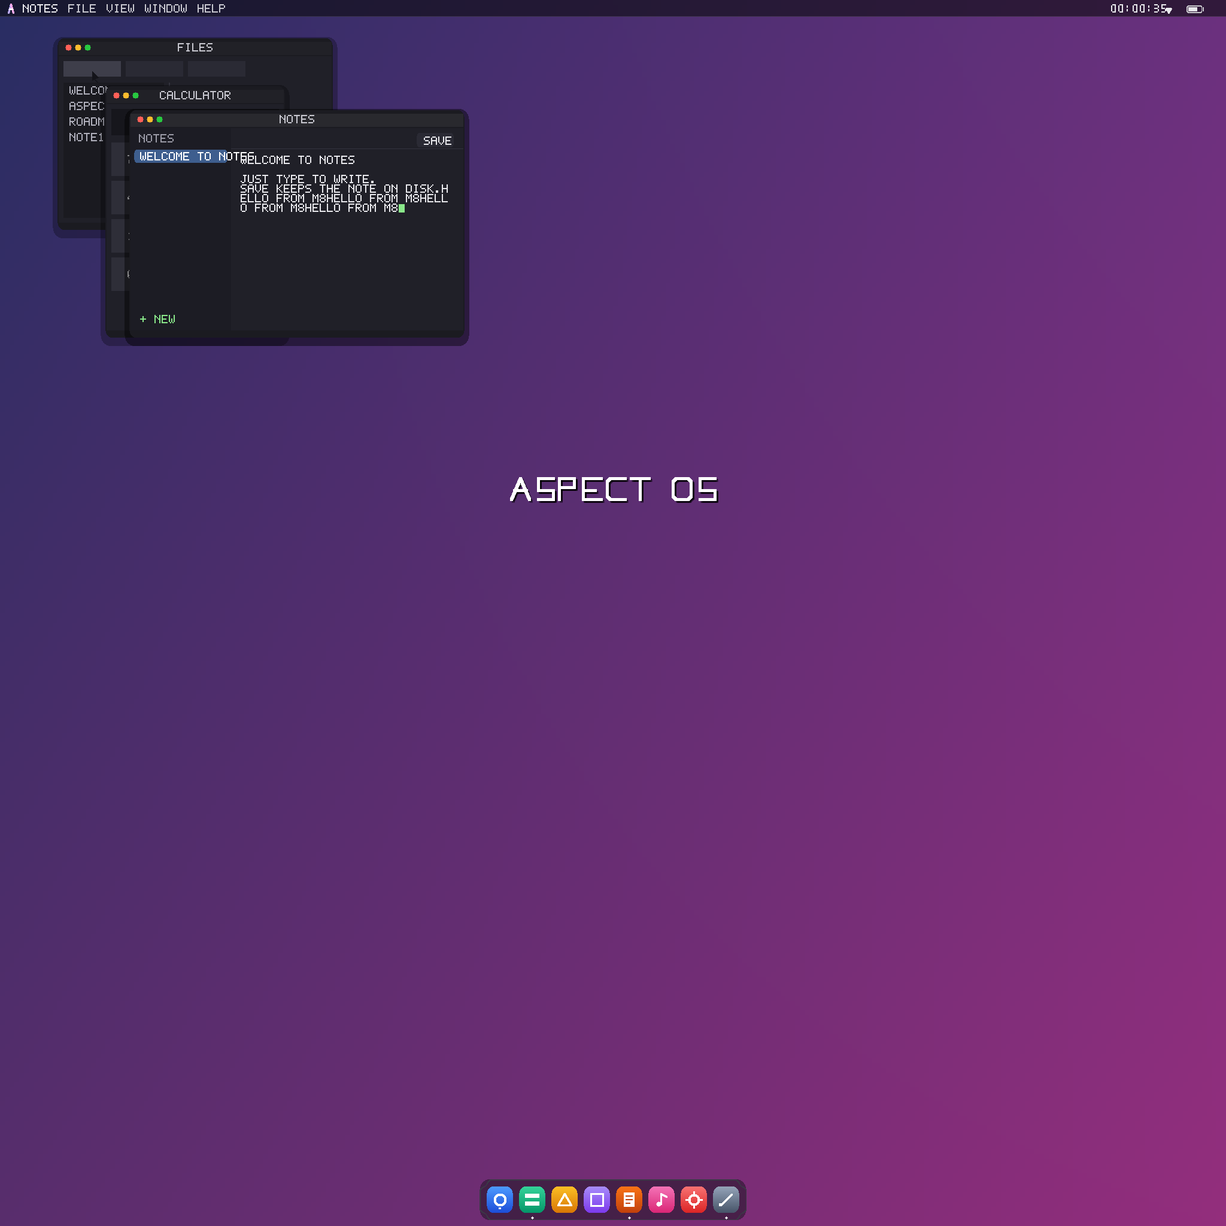
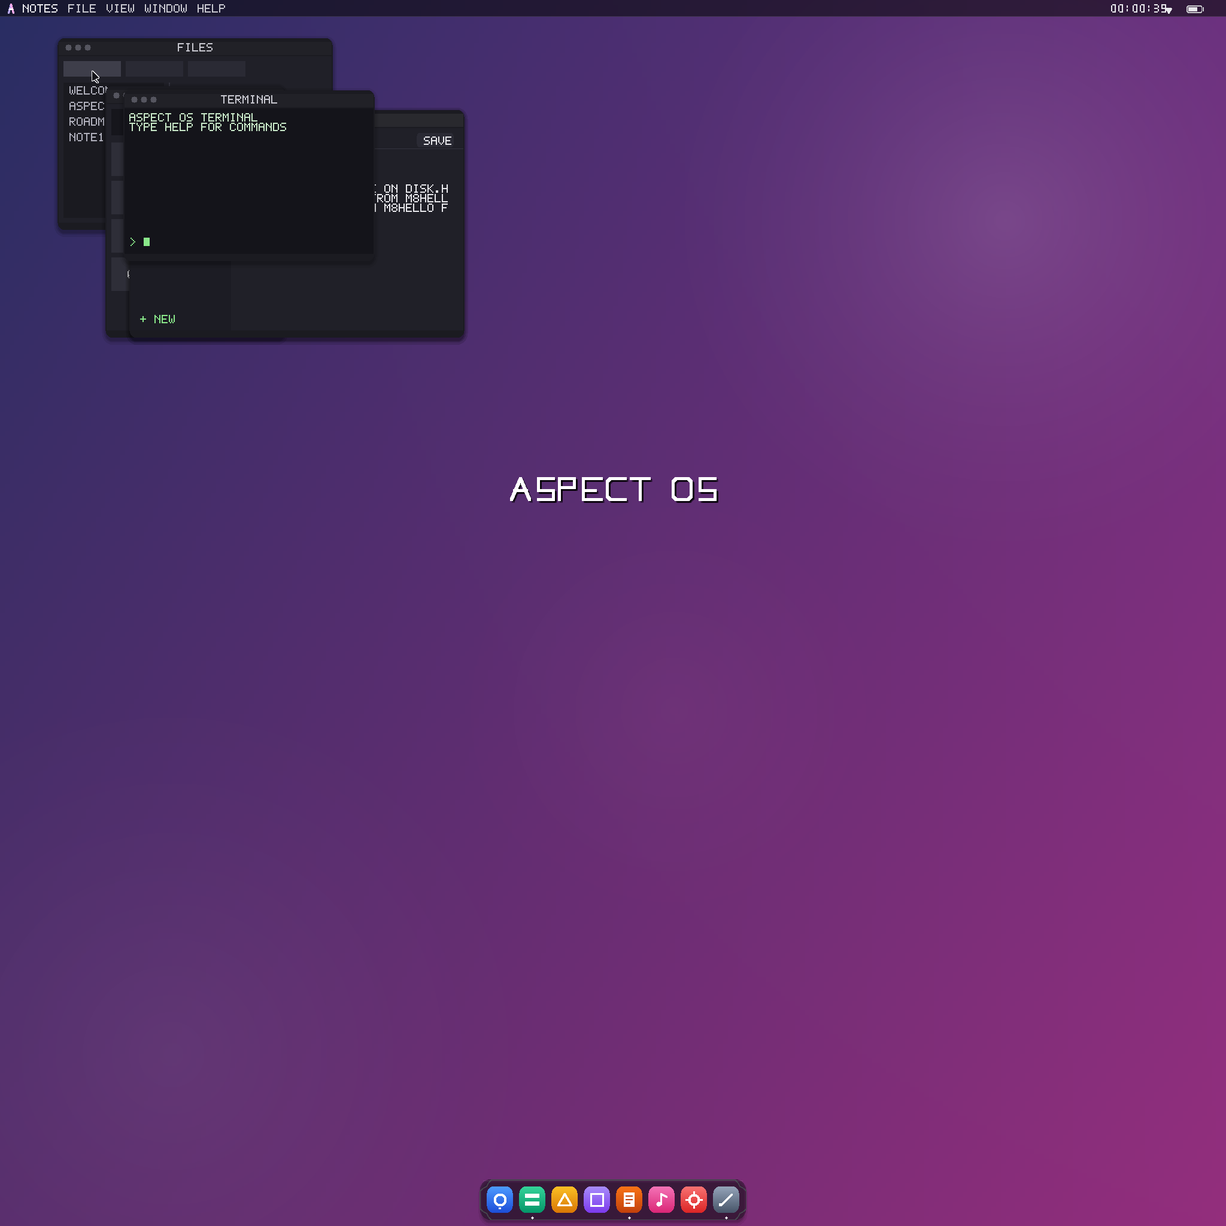
M9: authentic macOS look + compositor/robustness improvements
- gui.rs: blit_rect bulk pixel-rect copy (clipped), 3-layer
  soft_shadow helper, arrow cursor with white outline, dock drawn
  as a translucent glass pill (soft shadow, hairline top edge),
  ambient wallpaper glow blobs tinted from the active theme
- wm.rs: macOS accent blue 0xFF3D6EB4, colored traffic lights on
  the focused window and gray ones on unfocused windows, hover
  glyphs only on the focused window, hairline under the title bar,
  dropdown menus get a layered shadow + border (double fill
  removed), the dock now floats above every window (macOS
  z-order), dirty() accessor
- apps.rs: paint canvas blitted as bulk rows instead of 537k
  per-pixel writes, accent blue applied across all apps, version
  strings 0.6.0 M9 / "VERSION 0.6 - AQUA", terminal path parser
  clamps the directory slice to the buffer size
- main.rs: idle path repaints only the menubar clock once per
  second instead of a full frame when nothing is animating
- docs/screenshots: refreshed curated M9 dump set (8 coherent
  frames, torn mid-frame captures removed)
- README: M9 rows in the architecture table, roadmap entry

Changed region(s): [[0.0938, 0.0625, 0.3125, 0.1875], [0.25, 0.0625, 0.3125, 0.0938]]

diff --git a/kernel/apps.rs b/kernel/apps.rs
@@ -224,7 +224,7 @@ fn files_draw(x: i32, y: i32, w: i32, h: i32) {
             let ry = y + 50 + i as i32 * 26;
             let sel = F_SEL == i as i32;
             if sel {
-                gui::fill_rect(x + 12, ry - 3, 160, 22, 0xFF3E5E8E);
+                gui::fill_rect(x + 12, ry - 3, 160, 22, 0xFF3D6EB4);
             }
             draw_name(x + 18, ry, &F_FILES[folder][i], 2, if sel { 0xFFFFFFFF } else { 0xFFB0B0BC });
         }
@@ -385,7 +385,7 @@ fn term_exec(cmd: &[u8]) {
     } else if eq("ECHO") {
         term_push(rest);
     } else if eq("VER") {
-        term_push_str("ASPECT OS 0.5.0 M5");
+        term_push_str("ASPECT OS 0.6.0 M9");
     } else if eq("UPTIME") {
         term_push_num("UP ", pit::ticks() / 1000, " SECONDS");
     } else if eq("MEM") {
@@ -448,6 +448,7 @@ fn term_path(arg: &[u8]) -> Option<(usize, usize)> {
     if slash == arg.len() {
         return None;
     }
+    let slash = slash.min(62); // up[] holds at most 62 bytes
     let dirname = &up[..slash];
     let filename = slash + 1; // index into `arg` (original case)
     if filename >= arg.len() {
@@ -1005,7 +1006,7 @@ fn calc_draw(x: i32, y: i32, w: i32, h: i32) {
             let bgc = if k == b'C' {
                 0xFF7A2E38
             } else if accent {
-                0xFF3E5E8E
+                0xFF3D6EB4
             } else {
                 0xFF2E2E38
             };
@@ -1080,14 +1081,9 @@ fn paint_in_canvas(lx: i32, ly: i32) -> bool {
 
 fn paint_draw(x: i32, y: i32, w: i32, h: i32) {
     gui::fill_rect(x, y, w, h, 0xFF23232B);
-    // canvas (1:1 blit, clipped by the window)
+    // canvas blit (1:1, clipped by the window clip; bulk rows, not per-pixel)
     unsafe {
-        for cy in 0..CANVAS_H {
-            let row = cy as usize * CANVAS_W as usize;
-            for cx in 0..CANVAS_W {
-                gui::pset(x + CANVAS_OX + cx, y + CANVAS_OY + cy, CANVAS[row + cx as usize]);
-            }
-        }
+        gui::blit_rect(&CANVAS, CANVAS_W, x + CANVAS_OX, y + CANVAS_OY, CANVAS_W, CANVAS_H);
     }
     // palette
     let py = y + CANVAS_OY + CANVAS_H + 10;
@@ -1167,7 +1163,7 @@ fn settings_draw(x: i32, y: i32, w: i32, h: i32) {
         let ry = y + 66 + i as i32 * 52;
         let sel = gui::theme() == i;
         if sel {
-            gui::fill_rect(x + 10, ry - 4, w - 20, 44, 0xFF3E5E8E);
+            gui::fill_rect(x + 10, ry - 4, w - 20, 44, 0xFF3D6EB4);
         }
         // swatch: preview from the theme gradient at this screen position
         gui::fill_rect(x + 18, ry + 4, 32, 16, gui::gradient_color(x + 18, ry + 4));
@@ -1357,7 +1353,7 @@ fn about_draw(x: i32, y: i32, w: i32, h: i32) {
     gui::draw_line_t(x + 52, y + 20, x + 74, y + 78, 5, 0xFFF5A8E8);
     gui::draw_line_t(x + 38, y + 58, x + 66, y + 58, 5, 0xFFFFFFFF);
     gui::draw_text(x + 104, y + 28, "ASPECT OS", 5, 0xFFFFFFFF);
-    gui::draw_text(x + 104, y + 76, "VERSION 0.5 - AQUA", 2, 0xFF9A9AA6);
+    gui::draw_text(x + 104, y + 76, "VERSION 0.6 - AQUA", 2, 0xFF9A9AA6);
     gui::fill_rect(x + 24, y + 120, w - 48, 1, 0xFF33333E);
     draw_multiline(x + 24, y + 136,
         "WINDOW COMPOSITOR WITH DRAG,\nFOCUS, TRAFFIC LIGHTS AND\nMENUBAR MENUS.\n\nFILES, TERMINAL, PAINT, NOTES,\nMUSIC, BROWSER, SETTINGS.\n\nOPEN/CLOSE + DOCK ANIMATIONS.\n100% OWN RUST CODE.", 2, 0xFFC0C0CA, w - 48);
@@ -1461,7 +1457,7 @@ fn notes_draw(x: i32, y: i32, w: i32, h: i32) {
             let ry = y + 40 + i as i32 * 26;
             let sel = i == NT_SEL;
             if sel {
-                gui::round_rect_fill(x + 6, ry - 4, sw - 12, 22, 6, 0xFF3E5E8E);
+                gui::round_rect_fill(x + 6, ry - 4, sw - 12, 22, 6, 0xFF3D6EB4);
             }
             let b = &NT_BUF[i][..NT_LEN[i]];
             let mut end = b.len();
@@ -1673,7 +1669,7 @@ fn music_draw(x: i32, y: i32, w: i32, h: i32) {
             let ry = y + 100 + i as i32 * 30;
             let sel = i == t;
             if sel {
-                gui::round_rect_fill(x + 184, ry - 5, w - 208, 24, 6, 0xFF3E5E8E);
+                gui::round_rect_fill(x + 184, ry - 5, w - 208, 24, 6, 0xFF3D6EB4);
             }
             gui::draw_text(x + 196, ry, MU_TITLES[i], 2,
                            if sel { 0xFFFFFFFF } else { 0xFFB0B0BC });
@@ -1689,7 +1685,7 @@ fn music_draw(x: i32, y: i32, w: i32, h: i32) {
         gui::round_rect_fill(x + 24, py, w - 48, 6, 3, 0xFF16161C);
         let fill = ((w - 48) as u64 * el / MU_SECS[t]) as i32;
         if fill > 6 {
-            gui::round_rect_fill(x + 24, py, fill, 6, 3, 0xFF3E5E8E);
+            gui::round_rect_fill(x + 24, py, fill, 6, 3, 0xFF3D6EB4);
         }
         gui::circle_fill(x + 24 + fill, py + 3, 6, 0xFFE8E8EC);
         let mut tb = [0u8; 8];
@@ -1705,7 +1701,7 @@ fn music_draw(x: i32, y: i32, w: i32, h: i32) {
         let cx0 = x + w / 2;
         let cy0 = y + 254;
         gui::circle_fill(cx0 - 56, cy0, 18, 0xFF2A2A34);
-        gui::circle_fill(cx0, cy0, 22, 0xFF3E5E8E);
+        gui::circle_fill(cx0, cy0, 22, 0xFF3D6EB4);
         gui::circle_fill(cx0 + 56, cy0, 18, 0xFF2A2A34);
         // prev: bar + left-pointing triangle
         gui::fill_rect(cx0 - 64, cy0 - 6, 3, 12, 0xFFFFFFFF);
@@ -1736,7 +1732,7 @@ fn music_draw(x: i32, y: i32, w: i32, h: i32) {
             } else {
                 4
             };
-            let col = gui::mix(0xFF3E5E8E, 0xFF8AB4FF, (i * 255 / n) as i32);
+            let col = gui::mix(0xFF3D6EB4, 0xFF8AB4FF, (i * 255 / n) as i32);
             gui::fill_rect(bx, by - ht, 8, ht, col);
         }
         if MU_PLAY {

diff --git a/kernel/wm.rs b/kernel/wm.rs
@@ -156,6 +156,11 @@ pub fn mark_dirty() {
     }
 }
 
+/// is a repaint pending? (used for the clock-only idle update path)
+pub fn dirty() -> bool {
+    unsafe { DIRTY }
+}
+
 /// app-driven continuous animation (e.g. the music equalizer)
 pub fn anim_request(ms: u64) {
     unsafe {
@@ -342,7 +347,7 @@ fn dock_app(i: usize) -> AppId {
 // macOS-style menubar menus: monogram, app name, FILE, VIEW, WINDOW, HELP
 // =====================================================================
 
-const ACCENT: u32 = 0xFF3E5E8E; // menu highlight blue (matches Settings)
+const ACCENT: u32 = 0xFF3D6EB4; // macOS-style menu/control highlight blue
 const MENU_N: i32 = 6; // 0 monogram, 1 app, 2 FILE, 3 VIEW, 4 WINDOW, 5 HELP
 static mut MENU_OPEN: i32 = -1;
 static mut MENU_HOVER: i32 = -1; // item row under the cursor
@@ -585,13 +590,13 @@ fn draw_menu(m: i32) {
         } else {
             gui::draw_text(tx0, 7, menu_title(m), 2, 0xFFFFFFFF);
         }
-        // dropdown: shadow + panel
+        // dropdown: layered soft shadow + panel + lit top edge
         let (px, py, pw, _) = menu_panel(m);
         let py = py - off;
         let ph = n as i32 * 20 + 8;
-        gui::round_rect_blend(px - 8, py, pw + 16, ph + 12, 14, 0x000000, 120 * e >> 8);
+        gui::soft_shadow(px, py, pw, ph, 10, 90 * e >> 8);
         gui::round_rect_fill(px, py, pw, ph, 10, 0xFF1F1F26);
-        gui::round_rect_fill(px, py, pw, ph, 10, 0xFF1F1F26);
+        gui::round_rect_stroke(px, py, pw, ph, 10, 1, 0x3C3C46);
         gui::blend_rect(px + 3, py + 1, pw - 6, 1, 0xFFFFFF, 26);
         for r in 0..n {
             let iy = py + 3 + r as i32 * 20;
@@ -801,22 +806,31 @@ fn draw_win(focused: bool, w: Win, k: i32) {
         h: nh,
         birth: 0,
     };
-    // drop shadow (fades in with the pop)
+    // macOS-style soft drop shadow (fades in with the pop)
     let sh = (if focused { 110 } else { 70 }) * k >> 8;
-    gui::round_rect_blend(sw.x - 8, sw.y - 2, sw.w + 16, sw.h + 16, 18, 0x000000, sh);
+    gui::soft_shadow(sw.x, sw.y, sw.w, sw.h, 12, sh);
     // body
     gui::round_rect_fill(sw.x, sw.y, sw.w, sw.h, 12, 0xFF1B1B21);
     // title strip (kept inside the rounded top corners)
     gui::blend_rect(sw.x + 2, sw.y + 6, sw.w - 4, TITLE_H - 8, 0xFFFFFF,
                     if focused { 16 } else { 7 });
-    // traffic lights
+    // hairline under the title bar
+    gui::blend_rect(sw.x + 2, sw.y + TITLE_H, sw.w - 4, 1, 0x000000, 50);
+    // traffic lights: colored when focused, gray when not (macOS behavior)
     let ly = sw.y + TITLE_H / 2;
-    gui::circle_fill(sw.x + 18, ly, 5, 0xFFFF5F57);
-    gui::circle_fill(sw.x + 34, ly, 5, 0xFFFEBC2E);
-    gui::circle_fill(sw.x + 50, ly, 5, 0xFF28C840);
-    // hover the title bar: glyphs appear on the lights (close / minus / zoom)
+    if focused {
+        gui::circle_fill(sw.x + 18, ly, 5, 0xFFFF5F57);
+        gui::circle_fill(sw.x + 34, ly, 5, 0xFFFEBC2E);
+        gui::circle_fill(sw.x + 50, ly, 5, 0xFF28C840);
+    } else {
+        gui::circle_fill(sw.x + 18, ly, 5, 0xFF55555F);
+        gui::circle_fill(sw.x + 34, ly, 5, 0xFF55555F);
+        gui::circle_fill(sw.x + 50, ly, 5, 0xFF55555F);
+    }
+    // hover the focused title bar: glyphs appear on the lights
+    // (close / minus / zoom)
     let (mx, my) = gui::cursor_pos();
-    if mx >= sw.x && mx < sw.x + sw.w && my >= sw.y && my < sw.y + TITLE_H {
+    if focused && mx >= sw.x && mx < sw.x + sw.w && my >= sw.y && my < sw.y + TITLE_H {
         gui::draw_line_t(sw.x + 15, ly - 3, sw.x + 21, ly + 3, 2, 0xFF7A1210);
         gui::draw_line_t(sw.x + 15, ly + 3, sw.x + 21, ly - 3, 2, 0xFF7A1210);
         gui::fill_rect(sw.x + 30, ly, 8, 2, 0xFF9A6A00);
@@ -897,8 +911,8 @@ fn draw_menu_titles() {
     }
 }
 
-/// full-screen compositor pass: background, dock, windows back to front,
-/// close ghosts, menubar menus, cursor
+/// full-screen compositor pass: background, windows back to front, close
+/// ghosts, dock ABOVE the windows (macOS z-order), menus, cursor
 pub fn redraw() {
     unsafe {
         let now = pit::ticks();
@@ -906,9 +920,6 @@ pub fn redraw() {
         // the clock lives in the background bar: blit_bg wipes it, so it is
         // drawn every frame right after the background
         gui::draw_clock(now / 1000);
-        // the dock is dynamic: magnification, bounce, running dots
-        let (bounce, lift, run) = dock_anim();
-        gui::draw_dock(&MAG, bounce, lift, &run);
         for i in 0..N {
             if let Some(w) = WINS[i] {
                 draw_window(i == N - 1, w, now);
@@ -930,9 +941,12 @@ pub fn redraw() {
         for i in k..4 {
             GHOSTS[i] = None;
         }
+        // the dock floats above every window
+        let (bounce, lift, run) = dock_anim();
+        gui::draw_dock(&MAG, bounce, lift, &run);
         // macOS-style menubar titles live over the background bar
         draw_menu_titles();
-        // menus draw above every window; the cursor stays on top
+        // menus draw above everything; the cursor stays on top
         if MENU_OPEN >= 0 {
             draw_menu(MENU_OPEN);
         }

diff --git a/kernel/gui.rs b/kernel/gui.rs
@@ -213,6 +213,37 @@ pub fn blend_rect(x0: i32, y0: i32, w: i32, h: i32, c: u32, a: i32) {
     }
 }
 
+/// bulk-copy a pixel rect from src (pitch spitch) into the current target,
+/// fully clipped - used for canvas blits (paint) instead of per-pixel pset
+pub fn blit_rect(src: &[u32], spitch: i32, dx: i32, dy: i32, w: i32, h: i32) {
+    unsafe {
+        let xa = clamp(dx, CL_X0, CL_X1 + 1);
+        let xb = clamp(dx + w - 1, CL_X0, CL_X1 + 1);
+        let ya = clamp(dy, CL_Y0, CL_Y1 + 1);
+        let yb = clamp(dy + h - 1, CL_Y0, CL_Y1 + 1);
+        let mut y = ya;
+        while y <= yb {
+            let sy = y - dy;
+            let srow = src.as_ptr().add((sy * spitch) as usize);
+            let drow = T.offset((y * TPPSL) as isize);
+            let mut x = xa - dx;
+            while x <= xb - dx {
+                *drow.offset((dx + x) as isize) = *srow.add(x as usize);
+                x += 1;
+            }
+            y += 1;
+        }
+    }
+}
+
+/// macOS-style soft drop shadow: three stacked translucent rounded rects
+/// (wide faint + mid + tight dark) read as one blurred shadow
+pub fn soft_shadow(x0: i32, y0: i32, w: i32, h: i32, r: i32, a: i32) {
+    round_rect_blend(x0 - 6, y0 - 4, w + 12, h + 16, r + 8, 0x000000, a * 30 / 100);
+    round_rect_blend(x0 - 3, y0 - 1, w + 6, h + 9, r + 4, 0x000000, a * 40 / 100);
+    round_rect_blend(x0, y0 + 2, w, h + 4, r, 0x000000, a * 50 / 100);
+}
+
 pub fn isqrt(n: u64) -> u64 {
     if n < 2 {
         return n;
@@ -661,8 +692,11 @@ pub fn dock_hit(cx: i32, cy: i32) -> i32 {
 pub fn draw_dock(mag: &[i32; DOCK_N], bounce: i32, lift: i32, running: &[bool; DOCK_N]) {
     dock_layout(mag);
     let (dpx, dpy, dpw, dph) = unsafe { D_PANEL };
-    round_rect_blend(dpx, dpy, dpw, dph, 18, 0x14141A, 125);
-    round_rect_stroke(dpx, dpy, dpw, dph, 18, 2, 0x3A3A46);
+    // translucent macOS dock pill: soft shadow, glassy body, lit top edge
+    soft_shadow(dpx + 4, dpy + 4, dpw - 8, dph - 6, 14, 60);
+    round_rect_blend(dpx, dpy, dpw, dph, 20, 0x101014, 105);
+    round_rect_stroke(dpx, dpy, dpw, dph, 20, 2, 0x46464F);
+    blend_rect(dpx + 6, dpy + 2, dpw - 12, 1, 0xFFFFFF, 26);
 
     let tops: [u32; DOCK_N] = [
         0xFF4C9AFF, 0xFF34D399, 0xFFFBBF24, 0xFFA78BFA,
@@ -751,9 +785,39 @@ pub fn draw_dock(mag: &[i32; DOCK_N], bounce: i32, lift: i32, running: &[bool; D
 // --- desktop background: render once, blit every frame ---
 // (the dock is NOT baked in: it is drawn per frame so it can magnify,
 // bounce and show running indicators)
+
+/// soft radial glow blob (wallpaper ambience, integer falloff)
+fn glow(cx: i32, cy: i32, r: i32, col: u32, alpha: i32) {
+    if r <= 0 {
+        return;
+    }
+    let r2 = (r * r) as u64;
+    for y in -r..=r {
+        let dy2 = (y * y) as u64;
+        for x in -r..=r {
+            let d2 = dy2 + (x * x) as u64;
+            if d2 <= r2 {
+                let fall = 255 - ((isqrt(d2) * 255) / r as u64) as i32;
+                let a = (alpha * fall * fall) >> 16;
+                if a > 0 {
+                    px_blend(cx + x, cy + y, col, a);
+                }
+            }
+        }
+    }
+}
+
 fn bg_render() {
     set_target_bg();
     draw_gradient();
+    // ambient glow blobs tinted from the theme corners (Sonoma-style depth)
+    unsafe {
+        let cols = THEME_COLS[THEME];
+        let lt = |c: u32, t: i32| mix(c, 0xFFFFFF, t);
+        glow(tw() * 82 / 100, th() * 18 / 100, th() / 3, lt(cols[1], 90), 85);
+        glow(tw() * 14 / 100, th() * 86 / 100, th() * 2 / 5, lt(cols[2], 55), 60);
+        glow(tw() * 55 / 100, th() * 58 / 100, th() / 4, lt(cols[3], 40), 35);
+    }
     draw_menubar();
     crate::logo::draw_wordmark(tw() / 2, th() * 40 / 100, 5);
     set_target_fb();
@@ -840,14 +904,28 @@ pub fn init_cursor() {
     }
 }
 
-/// draw the arrow at the current position into the current target (framebuffer)
+/// draw the arrow at the current position into the current target (framebuffer):
+/// white outline (mask dilated by 1 px) with the dark arrow on top, like macOS
 pub fn draw_cursor() {
     unsafe {
         let (x, y) = (CUR_X, CUR_Y);
+        // outline pass: stamp white around every arrow pixel
         for (ry, row) in CURSOR_SHAPE.iter().enumerate() {
             for rx in 0..CUR_W {
                 if row & (0x800 >> rx) != 0 {
-                    px(x + rx, y + ry as i32, 0xFF14141A); // dark arrow
+                    for oy in -1..=1 {
+                        for ox in -1..=1 {
+                            px(x + rx as i32 + ox, y + ry as i32 + oy, 0xFFF2F2F6);
+                        }
+                    }
+                }
+            }
+        }
+        // body pass on top
+        for (ry, row) in CURSOR_SHAPE.iter().enumerate() {
+            for rx in 0..CUR_W {
+                if row & (0x800 >> rx) != 0 {
+                    px(x + rx as i32, y + ry as i32, 0xFF14141A); // dark arrow
                 }
             }
         }

diff --git a/kernel/main.rs b/kernel/main.rs
@@ -170,7 +170,13 @@ fn kernel_main(bi: *const BootInfo) {
         }
         let sec = pit::ticks() / 1000;
         if LAST_SEC.swap(sec, Ordering::Relaxed) != sec {
-            wm::mark_dirty(); // redraw() paints the clock (blit_bg wipes it)
+            // idle path: only repaint the menubar clock region instead of a
+            // full frame (the background bar is baked without the clock)
+            if wm::animating() || wm::dirty() {
+                wm::mark_dirty();
+            } else {
+                gui::draw_clock(sec);
+            }
         }
         unsafe { asm!("hlt", options(nomem, nostack)) };
     }

diff --git a/README.md b/README.md
@@ -69,13 +69,14 @@ no GRUB, no foreign crates, no pre-made themes. Own UEFI bootloader, own
 |---|---|
 | **Bootloader** `boot/main.rs` | Own `repr(C)` UEFI headers (no GNU-EFI), GOP video mode (highest resolution), kernel **embedded** (`include_bytes!`) and copied to `0x2000000` (32 MiB span reserved: the image includes ~19 MiB of `.bss` buffers, and OVMF reserves everything below ~24 MiB), own stack, memory map copied into `BootInfo` before `ExitBootServices` (with retry), handover via `asm!` (`rdi` = BootInfo) |
 | **Kernel** `kernel/` | `.bss` zeroing (u64 bulk + byte head/tail), staged logging via COM1, event loop (`sti`/`hlt`): drains mouse/key queues, repaints on demand, ticks the menubar clock once per second |
-| **GUI** `kernel/gui.rs` | Draw targets (framebuffer / 2048x2048 background buffer / app canvas) with clipping, 4 themes (AURORA/SUNSET/OCEAN/FOREST) with bilinear gradients, alpha blending, rounded rects (scanline + `isqrt`), Bresenham brush lines, SDF strokes, menubar (monogram/wifi/battery/clock), dock with 6 app icons, 5x7 ASCII bitmap font (`font.rs`), pre-rendered background blitted in u64 bulk, arrow cursor drawn last (no save/restore) |
+| **GUI** `kernel/gui.rs` | Draw targets (framebuffer / 2048x2048 background buffer / app canvas) with clipping, 4 themes (AURORA/SUNSET/OCEAN/FOREST) with bilinear gradients, alpha blending, rounded rects (scanline + `isqrt`), Bresenham brush lines, SDF strokes, menubar (monogram/wifi/battery/clock), dock as a translucent glass pill with a hairline top edge, ambient wallpaper glow blobs tinted from the theme, bulk pixel-rect blits (`blit_rect`, used for the paint canvas), macOS-style soft drop shadows (3 layered translucent rounded rects), 5x7 ASCII bitmap font (`font.rs`), pre-rendered background blitted in u64 bulk, arrow cursor drawn last with a white outline (no save/restore) |
 | **Interrupts (M2)** | `gdt.rs` own GDT with far-return CS reload, `idt.rs` 32 exception stubs (global_asm, own register save) + IRQ0/1/12 dispatcher (IRQ1/12 push events into the WM queues), `pic.rs` 8259A remap to 32..47, `pit.rs` timer @ 1000 Hz |
 | **Input + memory (M3)** | `ps2.rs` 8042 init (translation off, scancode set 2, timeouts), `keyboard.rs` keymap + shift map + 20 ms make-code debounce, `mouse.rs` 3-byte packet parser (`Option` events only on completed packets), `pmm.rs` bitmap frame allocator fed by the UEFI memory map from the bootloader |
 | **Window manager (M4)** `wm.rs` | Window list with z-order by index (max 8), ring-buffer input queues (IRQ producer / main-loop consumer), raise on click, title-bar drag, red traffic light closes, dock launches apps, content clicks/moves/keys routed to the focused app, macOS-style menubar menus (monogram/app/FILE/VIEW/WINDOW/HELP dropdowns with live hover switching, item highlighting, checkmarks, outside-click close, any key closes), compositor pass: background -> windows (shadow, chrome, clipped content) -> menus -> cursor |
-| **Motion (M8)** `wm.rs` | Eased open/close pop (scale around the window center, 220 ms), shrinking close ghosts drawn over the live windows, dock icons magnify under the cursor and launch icons hop (bounce), running-indicator dots under open apps, traffic-light hover glyphs (x/minus/zoom), menubar menus slide in, dirty-flag compositor throttled to ~60 fps with app-driven animation requests (equalizer) |
+| **Motion (M8)** `wm.rs` | Eased open/close pop (scale around the window center, 220 ms), shrinking close ghosts drawn over the live windows, dock icons magnify under the cursor and launch icons hop (bounce), running-indicator dots under open apps, traffic-light hover glyphs on the focused window only (x/minus/zoom), menubar menus slide in, dirty-flag compositor throttled to ~60 fps with app-driven animation requests (equalizer) |
+| **Polish (M9)** `wm.rs`/`gui.rs` | Authentic macOS look: colored traffic lights on the focused window, gray ones on unfocused windows, hairline under the title bar, soft shadows fade in with the window pop, dropdown menus get a layered shadow + border, the dock floats **above** every window (macOS z-order), macOS accent blue (`0xFF3D6EB4`) across menus/selection/controls; idle path repaints only the menubar clock once per second instead of a full frame |
 | **Apps (M4)** `apps.rs` | Files (backed by ASPFS on disk: tabs + file list + detail pane loaded from disk), Terminal (13x38 text grid: help/clear/echo/ver/uptime/mem/apps/about + disk commands ls/cat/write/rm/df + network commands ip/ping + reboot via 8042 reset), Calculator (i64 integer math, ERROR on /0), Paint (960x560 canvas, 8-color palette, brush strokes), Settings (4 themes, instant desktop regen), Browser (offline pages: HOME/ABOUT/MANUAL/404, URL bar), About + Settings (via the monogram menu, manual page also via the HELP menu) |
-| **Apps (M8)** `apps.rs` | Music (playlist NEON DRIVE/SUNSET GRID/DEEP OCEAN, play/pause/prev/next, seek bar, live equalizer bars while playing), Notes (sidebar note list + editor, SAVE writes NOTE1..NOTE6.TXT to disk, notes reload from disk on boot and survive reboots) |
+| **Apps (M8)** `apps.rs` | Music (playlist NEON DRIVE/SUNSET GRID/DEEP OCEAN, play/pause/prev/next, seek bar, live equalizer bars while playing), Notes (sidebar note list + editor, SAVE writes NOTE1..NOTE6.TXT to disk, notes reload from disk on boot and survive reboots); the paint canvas is blitted as bulk rows instead of 537k per-pixel writes |
 | **Disk (M5)** `pci.rs`/`ahci.rs` | Own PCI config-space scan (ports 0xCF8/0xCFC): finds the AHCI controller (class 0106), enables memory space + bus mastering, hands BAR5 to the driver. `ahci.rs`: HBA init (GHC.AE), first port with DET=3, command list + FIS receive + command table in frames from our own PMM, READ/WRITE DMA EXT (LBA48) with polling (no interrupts), DMA staging buffer in `.bss` |
 | **File system (M5)** `fs.rs` | **ASPFS**, the own format: 4 KiB blocks, block 0 superblock (magic `ASPFS`), block bitmap (cached in memory), chained directory blocks with 128-byte entries (kind/name/start/count/size), files as contiguous extents. Mount/list/read/write/delete/free, all writes go back to disk through the AHCI driver — files survive reboots |
 | **mkfs (M5)** `tools/mkfs.rs` | Host tool (plain Rust, no deps): formats `build/aspect-data.img` (16 MiB) with the ASPFS layout and the seed files (SYSTEM/USERS/GUEST folders); wired into `make all` |
@@ -134,6 +135,7 @@ powershell -ExecutionPolicy Bypass -File "scripts\start-os.ps1" -Window
 - [x] **M6** Network stack (QEMU): own PCI NIC discovery, own e1000 driver, own ARP/IPv4/ICMP stack, `IP`/`PING` terminal commands; real hardware next (USB stick)
 - [x] **M7** macOS-style menubar menus: monogram/app/FILE/VIEW/WINDOW/HELP dropdowns, live hover switching, theme picker with checkmarks, window list
 - [x] **M8** macOS polish: window open/close pop + close ghost, dock magnification + launch bounce + running dots, traffic-light hover glyphs, animated music player (equalizer, playlist, seek bar), Notes app with disk persistence, per-frame compositor throttling, `REBOOT` terminal command (8042 reset)
+- [x] **M9** authentic macOS look + robustness: soft drop shadows, gray traffic lights on unfocused windows, title-bar hairline, glass dock pill + wallpaper glows, cursor outline, dock z-order above windows, macOS accent blue, bulk-canvas blits, clock-only idle repaint (version 0.6 "AQUA")
 
 ## License
 
